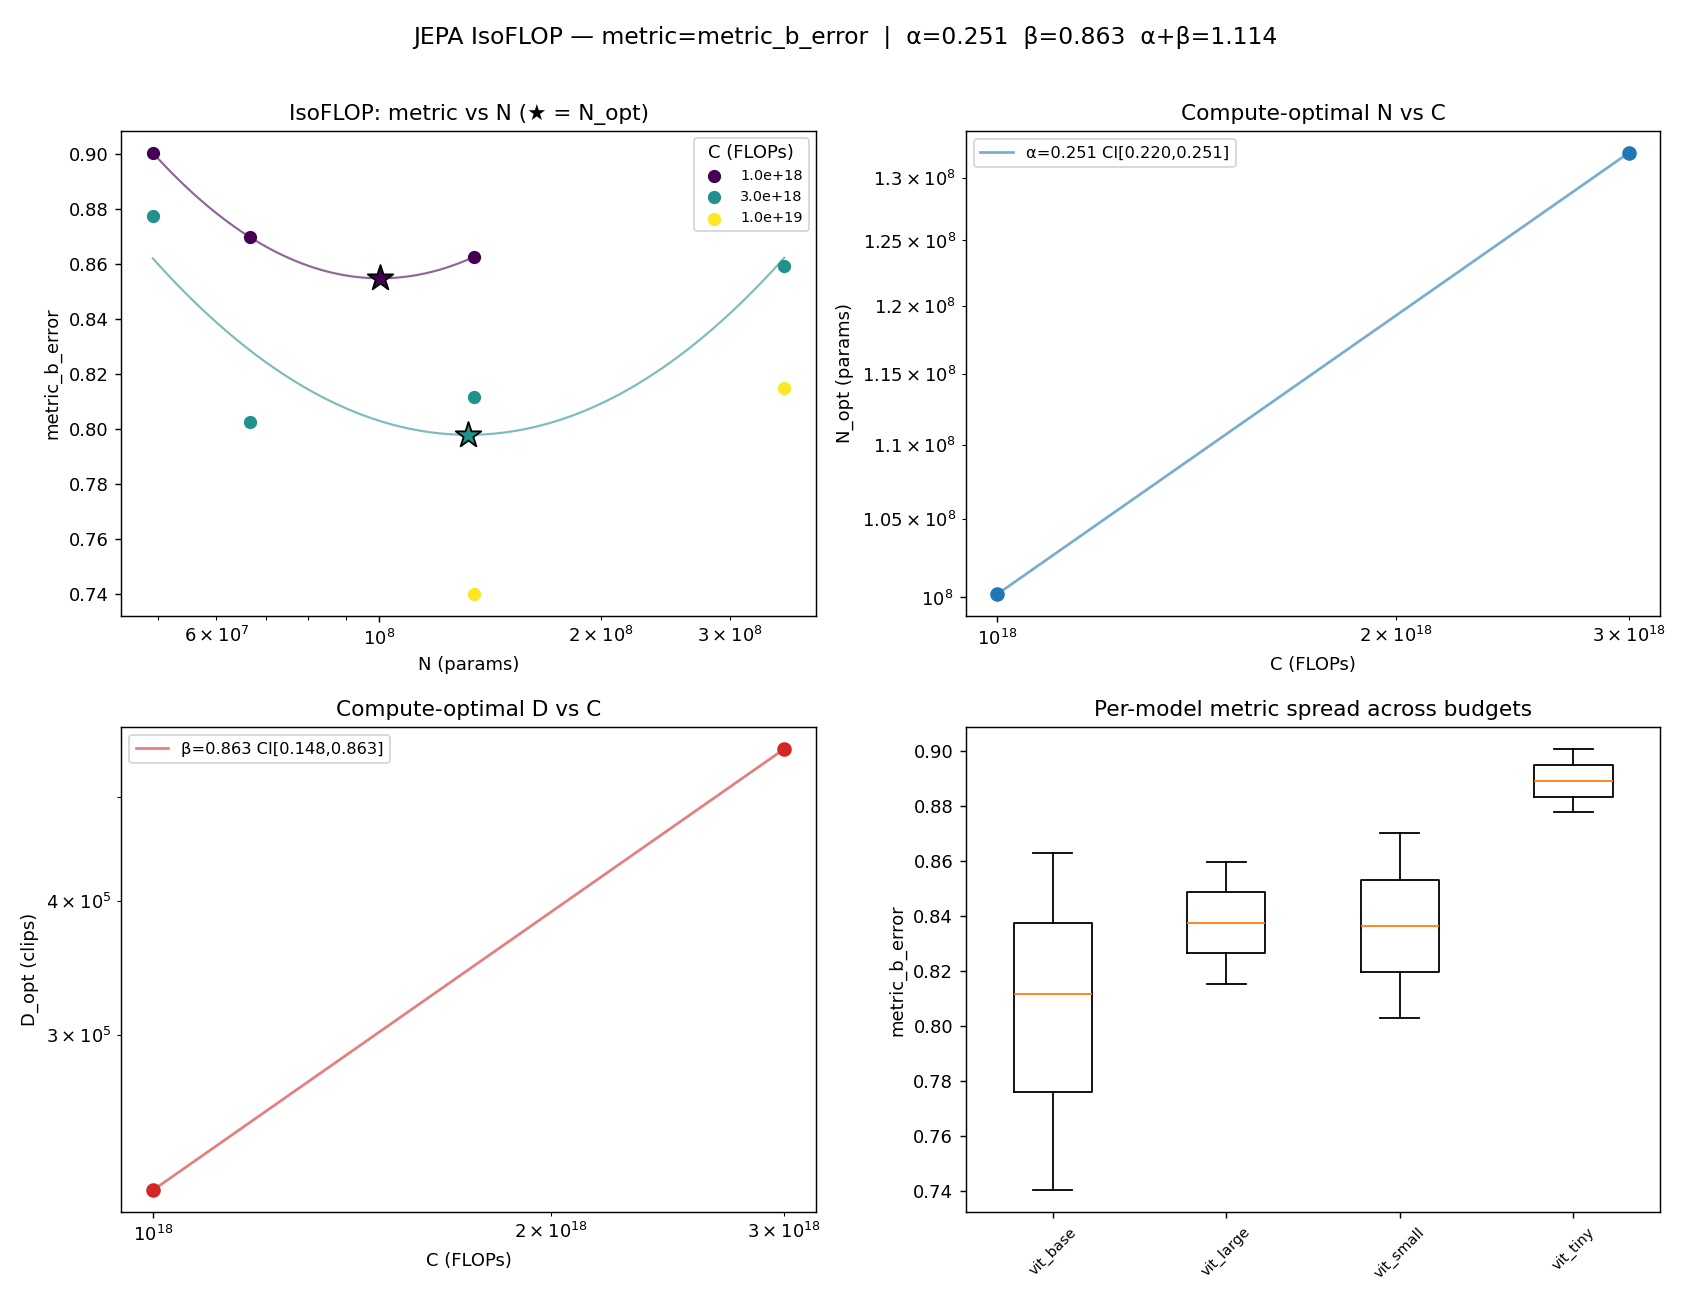
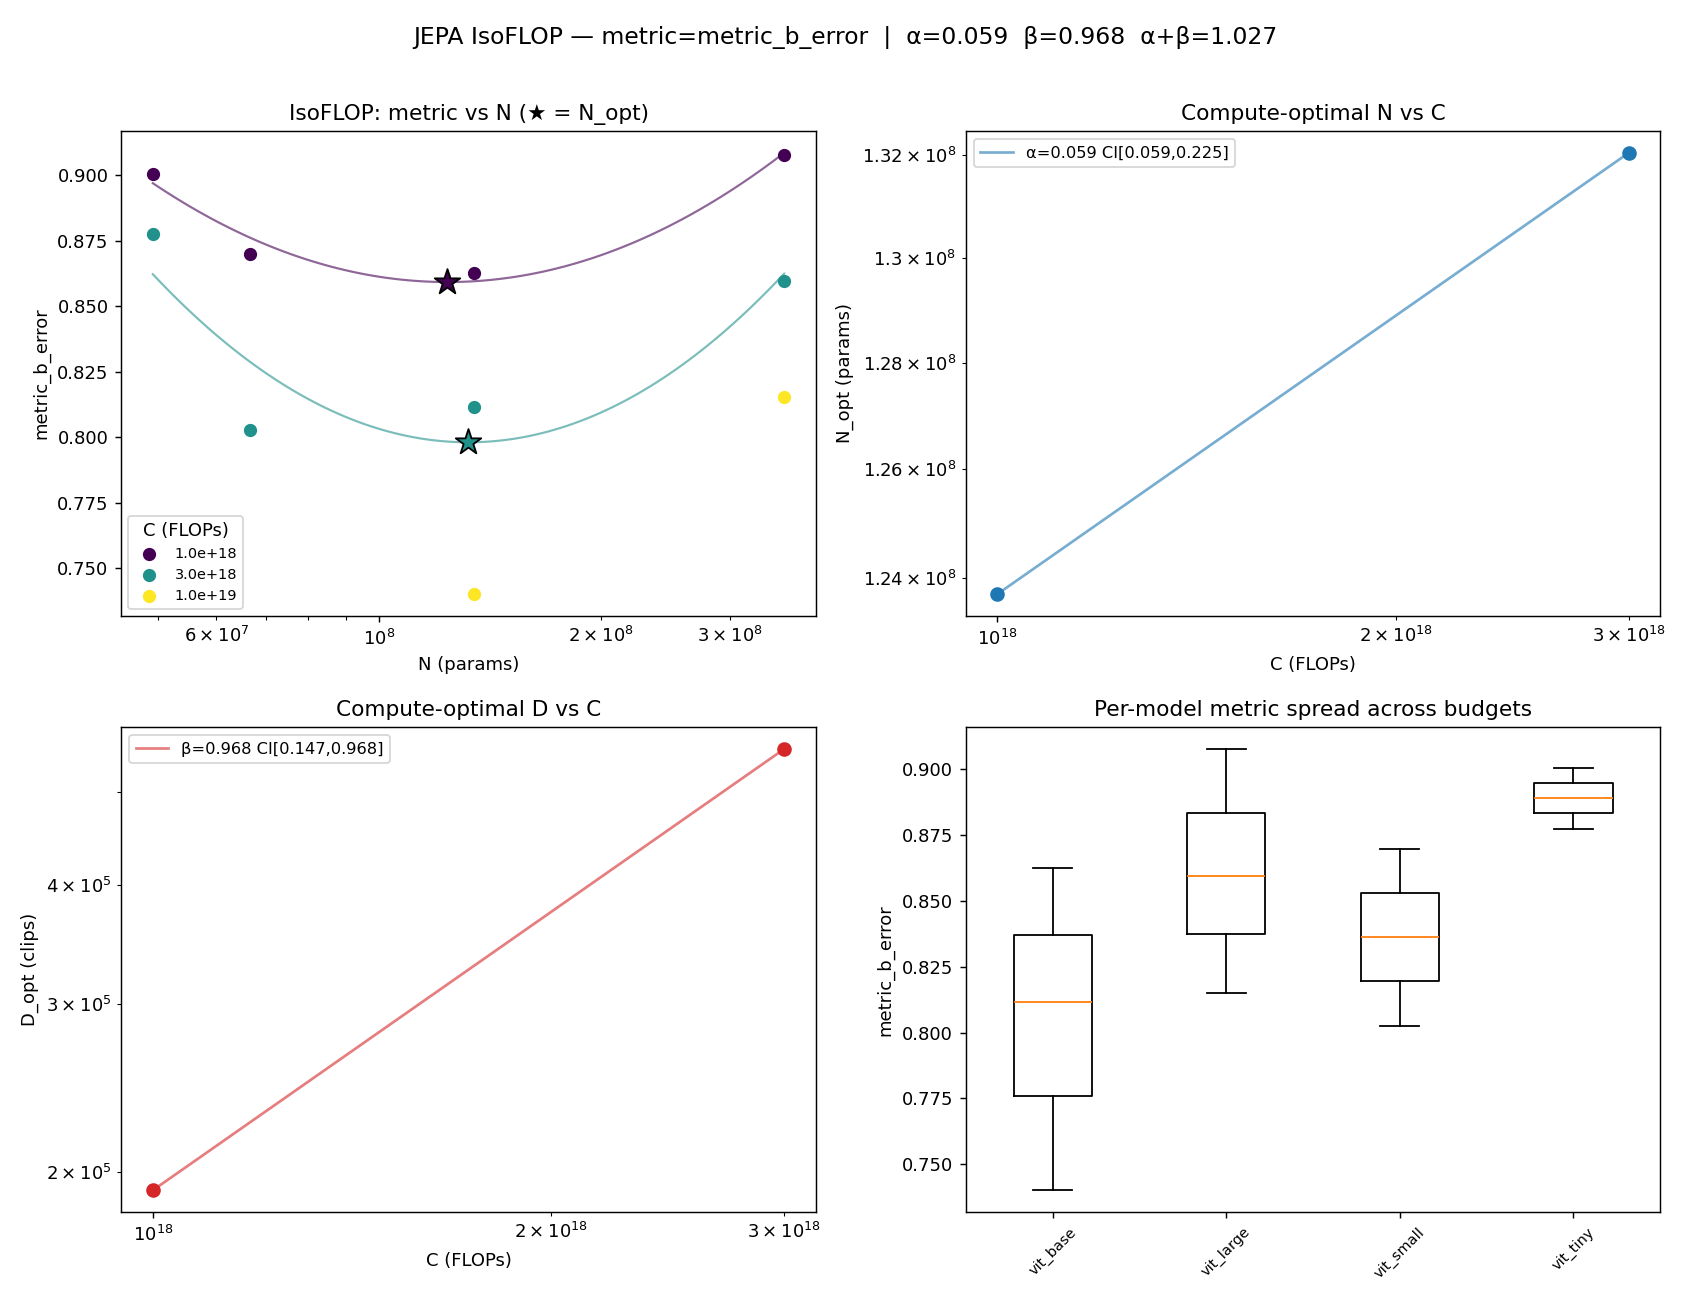
fix(fit): accept 'unconverged' cells for non-loss metrics; recover large_C1e18
The status column is a LOSS-stability verdict, irrelevant when fitting Metric B.
large_C1e18 (2-epoch/1000-step run, wobbly loss but completed target + valid
frozen-encoder Metric B) was wrongly excluded, leaving 1e18 as a degenerate
3-point exact-interpolation parabola. Including it makes 1e18 a real 4-point fit
(RMSE 0.004, valid U, large=0.908 correctly over-sized for the budget). Result:
alpha+beta 1.11 -> 1.027 (much closer to Chinchilla ~1.0), N_opt 1e18 ~124M.

diff --git a/scaling/fit.py b/scaling/fit.py
@@ -100,9 +100,17 @@ def _make_tf_interp(rows):
 
 def _load(path, metric, all_status, maximize):
     rows = []
+    # The `status` column is a LOSS-stability/convergence verdict (collect.py flags a cell
+    # `unconverged` when stdev/mean of loss_main exceeds a threshold). That gate is IRRELEVANT when the
+    # y-axis is NOT loss: e.g. a short large@small-budget cell has a wobbly loss over its few steps but
+    # a perfectly valid Metric B (it completed its target steps and its frozen encoder is scored on the
+    # fixed ruler). So for a non-loss metric, accept `unconverged` cells too — they were only excluded
+    # for loss noise we don't care about. Still reject collapsed/nan/no_loss/incomplete.
+    loss_metric = metric.startswith("loss")
+    ok_status = {"done"} if loss_metric else {"done", "unconverged"}
     with open(path) as f:
         for r in csv.DictReader(f):
-            if not all_status and r.get("status") != "done":
+            if not all_status and r.get("status") not in ok_status:
                 continue
             try:
                 n = float(r["n_active_params"])
